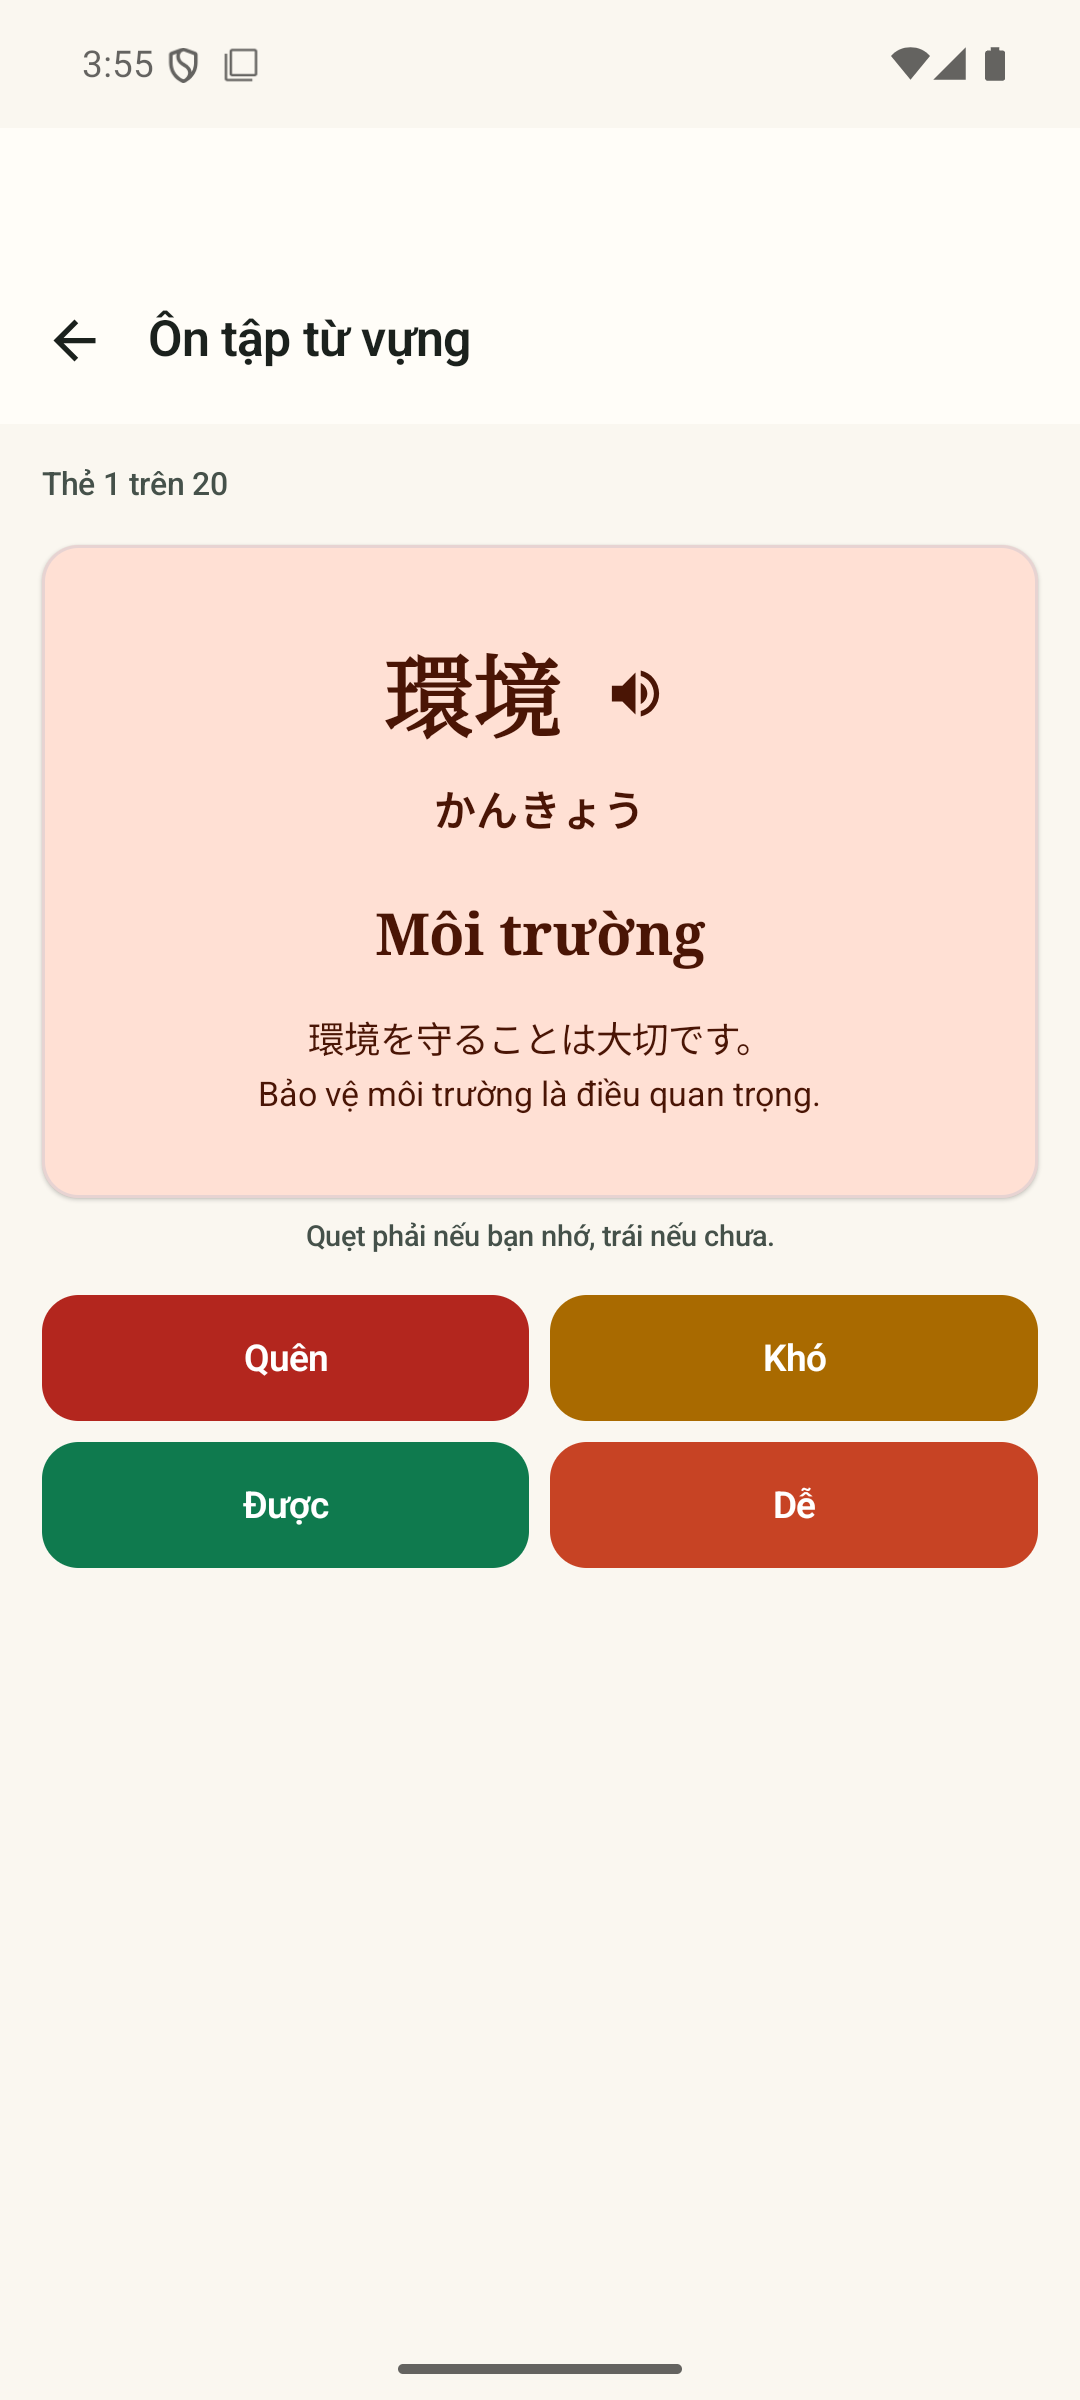
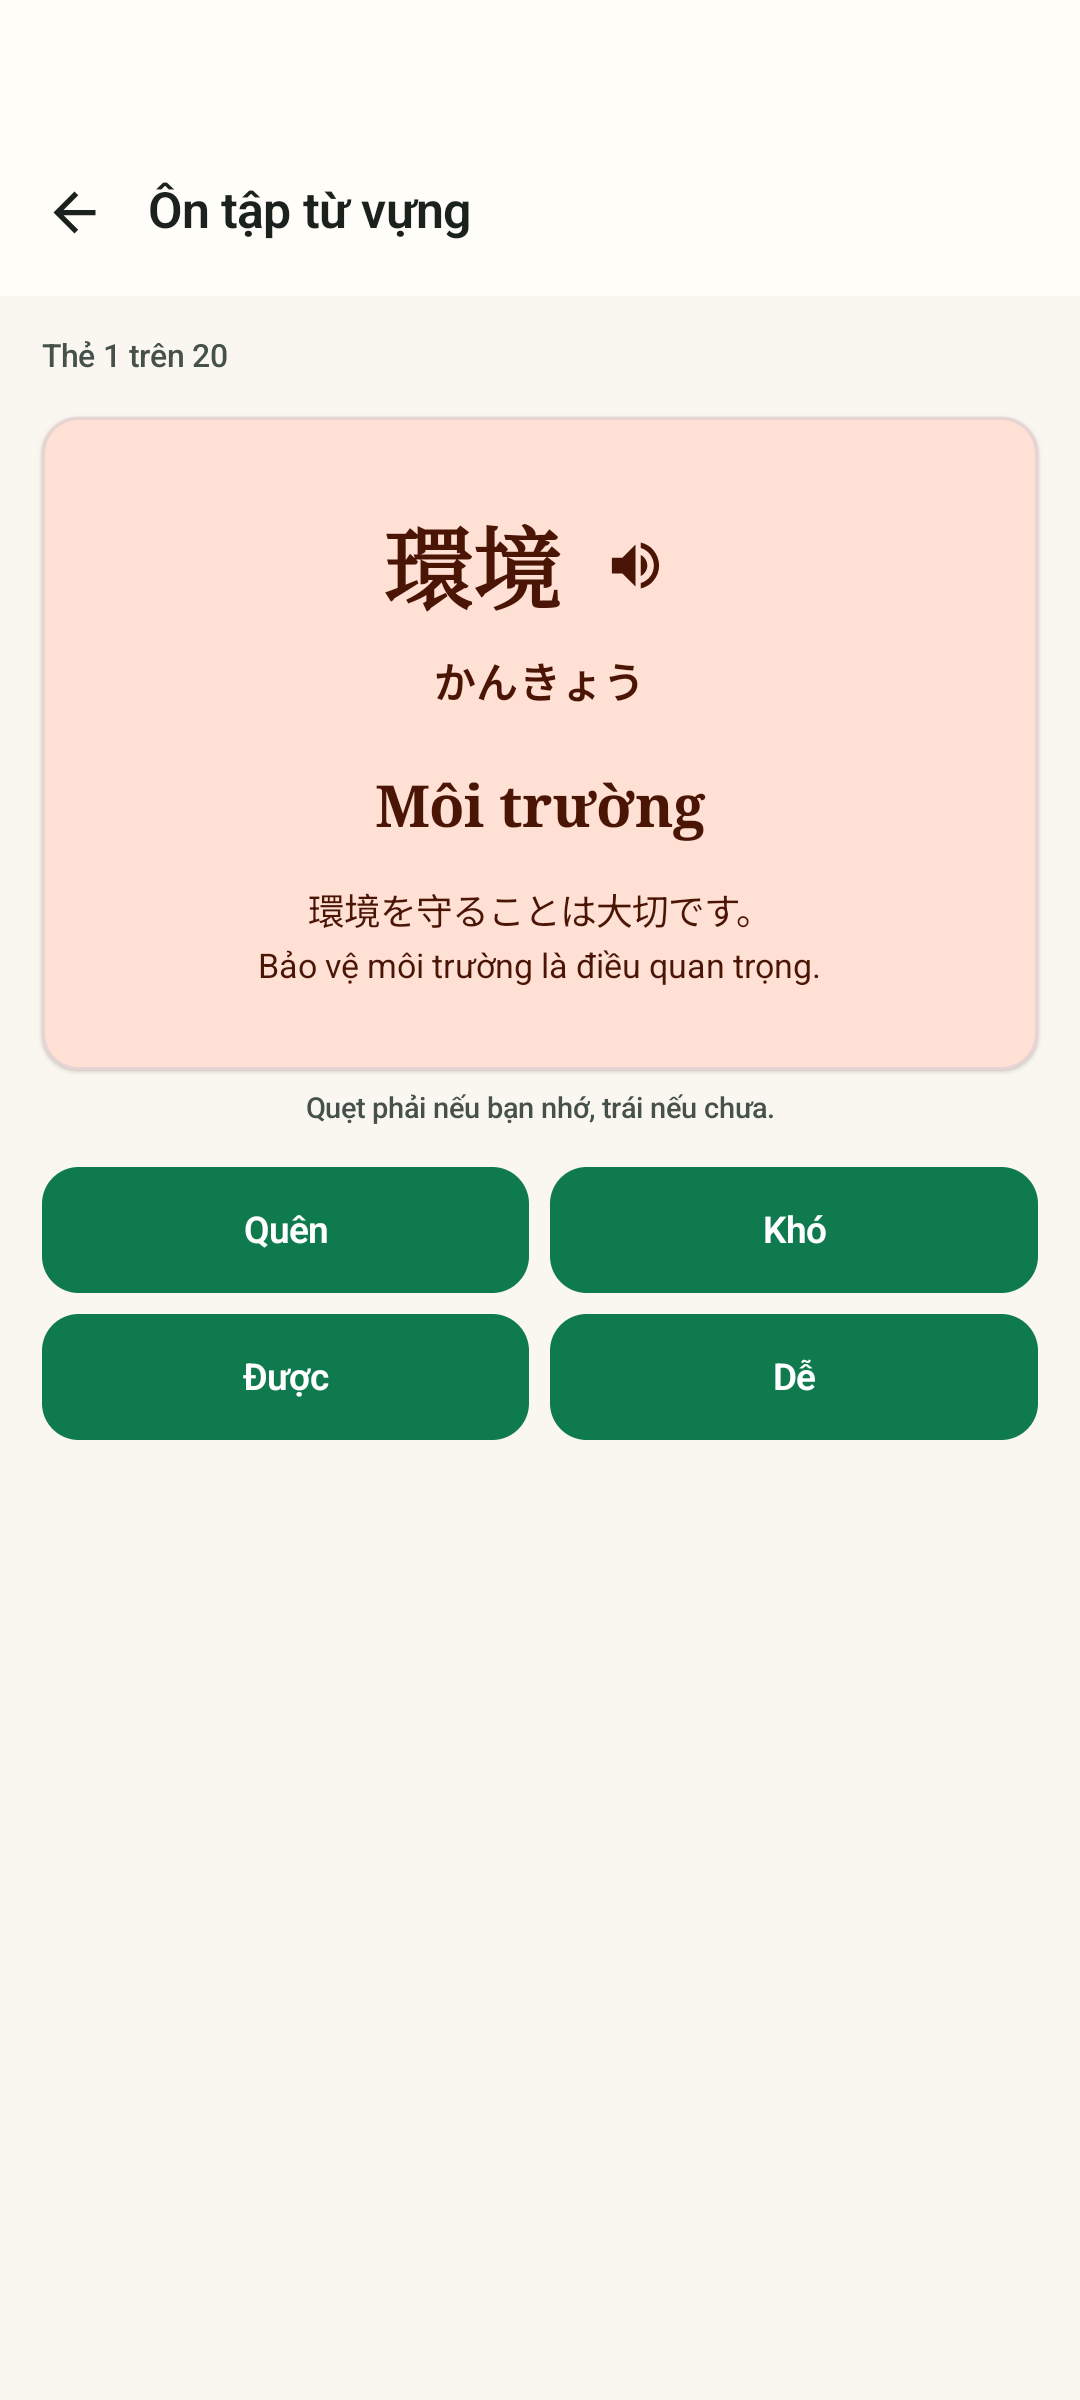
fix(android): unify flashcard review visuals (#4)
* fix(android): unify flashcard grade colors

* test(android): verify flashcard grade colors

* docs: correct flashcard review gallery and screenshot

diff --git a/android/app/src/androidTest/java/com/linguaai/app/ui/screens/flashcard/FlashcardScreenTest.kt b/android/app/src/androidTest/java/com/linguaai/app/ui/screens/flashcard/FlashcardScreenTest.kt
@@ -1,0 +1,110 @@
+package com.linguaai.app.ui.screens.flashcard
+
+import android.content.res.Configuration
+import android.graphics.Bitmap
+import androidx.compose.runtime.CompositionLocalProvider
+import androidx.compose.runtime.getValue
+import androidx.compose.runtime.mutableStateOf
+import androidx.compose.runtime.setValue
+import androidx.compose.ui.graphics.asAndroidBitmap
+import androidx.compose.ui.graphics.toArgb
+import androidx.compose.ui.platform.LocalConfiguration
+import androidx.compose.ui.platform.LocalContext
+import androidx.compose.ui.test.captureToImage
+import androidx.compose.ui.test.junit4.createComposeRule
+import androidx.compose.ui.test.onNodeWithText
+import androidx.compose.ui.test.onRoot
+import androidx.test.platform.app.InstrumentationRegistry
+import com.linguaai.app.domain.model.VocabularyCard
+import com.linguaai.app.ui.theme.LinguaAiTheme
+import com.linguaai.app.ui.theme.PrimaryDark
+import com.linguaai.app.ui.theme.PrimaryLight
+import org.junit.Assert.assertEquals
+import org.junit.Rule
+import org.junit.Test
+import java.io.File
+import java.io.FileOutputStream
+import java.util.Locale
+
+class FlashcardScreenTest {
+    @get:Rule
+    val composeRule = createComposeRule()
+
+    @Test
+    fun gradeButtonsShareThemePrimary_andCaptureVietnameseReviewScreen() {
+        val baseContext = InstrumentationRegistry.getInstrumentation().targetContext
+        val localizedConfiguration =
+            Configuration(baseContext.resources.configuration).apply {
+                setLocale(Locale.forLanguageTag("vi-VN"))
+            }
+        val localizedContext = baseContext.createConfigurationContext(localizedConfiguration)
+        var darkTheme by mutableStateOf(false)
+
+        composeRule.setContent {
+            CompositionLocalProvider(
+                LocalContext provides localizedContext,
+                LocalConfiguration provides localizedConfiguration,
+            ) {
+                LinguaAiTheme(darkTheme = darkTheme) {
+                    FlashcardScreenContent(
+                        state = reviewState(),
+                        onBack = {},
+                        onEvent = {},
+                        onStartCramSession = {},
+                    )
+                }
+            }
+        }
+
+        composeRule.waitForIdle()
+        assertGradeButtonColors(PrimaryLight.toArgb())
+        captureReferenceImage()
+
+        composeRule.runOnIdle { darkTheme = true }
+        composeRule.waitForIdle()
+        assertGradeButtonColors(PrimaryDark.toArgb())
+    }
+
+    private fun assertGradeButtonColors(expectedColor: Int) {
+        listOf("Quên", "Khó", "Được", "Dễ").forEach { label ->
+            val bitmap = composeRule.onNodeWithText(label).captureToImage().asAndroidBitmap()
+            val interiorColor = bitmap.getPixel(bitmap.width / 4, bitmap.height / 2)
+            assertEquals("$label should use the theme primary color", expectedColor, interiorColor)
+        }
+    }
+
+    private fun captureReferenceImage() {
+        val context = InstrumentationRegistry.getInstrumentation().targetContext
+        val directory = File(requireNotNull(context.getExternalFilesDir(null)), "flashcard")
+        check(directory.exists() || directory.mkdirs())
+        val file = File(directory, "flashcard-review-vi.png")
+        val bitmap = composeRule.onRoot().captureToImage().asAndroidBitmap()
+        FileOutputStream(file).use { output ->
+            check(bitmap.compress(Bitmap.CompressFormat.PNG, 100, output))
+        }
+    }
+
+    private fun reviewState(): FlashcardUiState {
+        val sample =
+            VocabularyCard(
+                id = 1,
+                languageId = 1,
+                level = "N3",
+                word = "環境",
+                reading = "かんきょう",
+                pronunciation = null,
+                meaning = "Môi trường",
+                example = "環境を守ることは大切です。",
+                exampleTranslation = "Bảo vệ môi trường là điều quan trọng.",
+                category = "Daily",
+                favorite = false,
+                masteryLevel = 1,
+            )
+        return FlashcardUiState(
+            isLoading = false,
+            queue = List(20) { index -> sample.copy(id = index.toLong() + 1) },
+            languageCode = "ja",
+            isRevealed = true,
+        )
+    }
+}

diff --git a/android/app/src/main/java/com/linguaai/app/ui/screens/flashcard/FlashcardScreen.kt b/android/app/src/main/java/com/linguaai/app/ui/screens/flashcard/FlashcardScreen.kt
@@ -69,6 +69,22 @@ fun FlashcardScreen(
 ) {
     val state by viewModel.uiState.collectAsStateWithLifecycle()
 
+    FlashcardScreenContent(
+        state = state,
+        onBack = onBack,
+        onEvent = viewModel::onEvent,
+        onStartCramSession = viewModel::startCramSession,
+    )
+}
+
+@OptIn(ExperimentalMaterial3Api::class)
+@Composable
+internal fun FlashcardScreenContent(
+    state: FlashcardUiState,
+    onBack: () -> Unit,
+    onEvent: (FlashcardEvent) -> Unit,
+    onStartCramSession: (Boolean) -> Unit,
+) {
     Scaffold(
         topBar = {
             TopAppBar(
@@ -129,19 +145,19 @@ fun FlashcardScreen(
                             modifier = Modifier.padding(top = Spacing.sm),
                         ) {
                             androidx.compose.material3.OutlinedButton(
-                                onClick = { viewModel.startCramSession(favoritesOnly = false) },
+                                onClick = { onStartCramSession(false) },
                             ) {
                                 Text(stringResource(R.string.flashcard_cram_all))
                             }
                             androidx.compose.material3.OutlinedButton(
-                                onClick = { viewModel.startCramSession(favoritesOnly = true) },
+                                onClick = { onStartCramSession(true) },
                             ) {
                                 Text(stringResource(R.string.flashcard_cram_favorites))
                             }
                         }
                     }
                 }
-            else -> FlashcardContent(state, viewModel::onEvent, Modifier.padding(padding))
+            else -> FlashcardContent(state, onEvent, Modifier.padding(padding))
         }
     }
 }
@@ -374,7 +390,6 @@ private fun GradeActions(
         GradeButton(
             label = stringResource(R.string.flashcard_grade_again),
             grade = ReviewGrade.AGAIN,
-            color = MaterialTheme.colorScheme.error,
             onEvent = onEvent,
             enabled = enabled,
             modifier = Modifier.weight(1f),
@@ -382,7 +397,6 @@ private fun GradeActions(
         GradeButton(
             label = stringResource(R.string.flashcard_grade_hard),
             grade = ReviewGrade.HARD,
-            color = MaterialTheme.colorScheme.tertiary,
             onEvent = onEvent,
             enabled = enabled,
             modifier = Modifier.weight(1f),
@@ -395,7 +409,6 @@ private fun GradeActions(
         GradeButton(
             label = stringResource(R.string.flashcard_grade_good),
             grade = ReviewGrade.GOOD,
-            color = MaterialTheme.colorScheme.primary,
             onEvent = onEvent,
             enabled = enabled,
             modifier = Modifier.weight(1f),
@@ -403,7 +416,6 @@ private fun GradeActions(
         GradeButton(
             label = stringResource(R.string.flashcard_grade_easy),
             grade = ReviewGrade.EASY,
-            color = MaterialTheme.colorScheme.secondary,
             onEvent = onEvent,
             enabled = enabled,
             modifier = Modifier.weight(1f),
@@ -415,7 +427,6 @@ private fun GradeActions(
 private fun GradeButton(
     label: String,
     grade: ReviewGrade,
-    color: androidx.compose.ui.graphics.Color,
     onEvent: (FlashcardEvent) -> Unit,
     enabled: Boolean,
     modifier: Modifier = Modifier,
@@ -423,7 +434,11 @@ private fun GradeButton(
     Button(
         onClick = { onEvent(FlashcardEvent.Grade(grade)) },
         enabled = enabled,
-        colors = ButtonDefaults.buttonColors(containerColor = color),
+        colors =
+            ButtonDefaults.buttonColors(
+                containerColor = MaterialTheme.colorScheme.primary,
+                contentColor = MaterialTheme.colorScheme.onPrimary,
+            ),
         shape = MaterialTheme.shapes.medium,
         modifier = modifier.heightIn(min = 48.dp),
     ) {

diff --git a/docs/ui/README.md b/docs/ui/README.md
@@ -30,7 +30,7 @@ shape/spacing/motion/type in `Shape.kt`, `Spacing.kt`, `LinguaMotion.kt`,
 | --- | --- | --- | --- |
 | Primary | `#0F7A4E` | `#7FDCA8` | Brand emerald: CTAs, active nav, mastery bars |
 | PrimaryContainer | `#C9EFD8` | `#0A5136` | Chips, highlighted cards, badge-earned tile |
-| Secondary | `#C74324` | `#FFB59A` | Coral: streaks, user chat bubble, HARD-side accents |
+| Secondary | `#C74324` | `#FFB59A` | Coral accents: streaks and user chat bubble |
 | SecondaryContainer | `#FFE0D4` | `#78301B` | Coral-tinted surfaces, revealed flashcard face |
 | Tertiary | `#A96A00` | `#FFC95C` | Amber: XP, celebration, weak-topic markers |
 | TertiaryContainer | `#FFEFC7` | `#604100` | Amber-tinted surfaces; mascot glow source |
@@ -190,6 +190,8 @@ Bubble restyle stayed token-only: tutor bubble = surface + outline, user bubble
   `GOOD`, left past 110 dp sends `AGAIN`; the card tilts at 0.06° per dragged dp
   and always springs back to center (`smooth()`), since grading advances the
   queue.
+- The four grade actions share the theme's `primary` / `onPrimary` colors; their
+  localized labels carry the grade meaning in both light and dark themes.
 - Swipes are additive, not exclusive: the four grade buttons (AGAIN / HARD /
   GOOD / EASY) remain, and both paths call the unchanged ViewModel events.
 
@@ -224,7 +226,7 @@ Captured from a `vi-VN` locale emulator (1080x2400); committed copies in
 | --- | --- | --- |
 | <img src="../../docs/img/splash.png" width="270"> | <img src="../../docs/img/home.png" width="270"> | <img src="../../docs/img/progress.png" width="270"> |
 | Swipe-to-grade flashcards | AI tutor chat | Vocabulary catalogue |
-| <img src="../../docs/img/flashcard.png" width="270"> | <img src="../../docs/img/ai-chat.png" width="270"> | <img src="../../docs/img/vocabulary.png" width="270"> |
+| <img src="../../docs/img/flashcard-review-vi.png" width="270" alt="Vietnamese flashcard review screen"> | <img src="../../docs/img/ai-chat.png" width="270"> | <img src="../../docs/img/vocabulary.png" width="270"> |
 
 ## 7. How to extend
 

diff --git a/README.md b/README.md
@@ -77,9 +77,9 @@ Japanese roleplay, Learn, and Vocabulary flows.
 | <img src="docs/img/home-current-vi.png" width="240" alt="LinguaAI Home in Vietnamese"> | <img src="docs/img/home-word-of-day-vi.png" width="240" alt="Word of the day card"> | <img src="docs/img/ai-tutor-current-vi.png" width="240" alt="AI tutor modes"> |
 | Japanese roleplay | Learn | Vocabulary |
 | <img src="docs/img/roleplay-reply-vi.png" width="240" alt="Japanese roleplay reply"> | <img src="docs/img/learn-current-vi.png" width="240" alt="Learn dashboard"> | <img src="docs/img/vocabulary-current-vi.png" width="240" alt="Vocabulary catalogue"> |
-| Flashcard review |
-| --- |
-| <img src="docs/img/flashcard-review-vi.png" width="240" alt="Flashcard review card"> |
+### Flashcard review
+
+<img src="docs/img/flashcard-review-vi.png" width="360" alt="Vietnamese flashcard review screen">
 
 Listen & Type question, answer feedback, and completion screens:
 

diff --git a/docs/screenshots/README.md b/docs/screenshots/README.md
@@ -35,3 +35,14 @@ its existing attribution and fallback coverage.
 | Question | ![Listen & Type question](../img/listen-and-type/listen-and-type-question.png) |
 | Correct-answer feedback | ![Listen & Type feedback](../img/listen-and-type/listen-and-type-feedback.png) |
 | Completed round | ![Listen & Type completion](../img/listen-and-type/listen-and-type-complete.png) |
+
+## Flashcard review
+
+This Vietnamese capture is rendered by `FlashcardScreenTest` on the Android 15
+emulator at 1080x2400 with a deterministic Japanese `環境` vocabulary fixture.
+The test checks that all four grading controls use the same theme primary
+color in light and dark themes, then writes this light-theme reference image.
+It verifies the Compose screen and does not depend on a signed-in account or
+live vocabulary data.
+
+![Vietnamese flashcard review with consistent grade button colors](../img/flashcard-review-vi.png)
